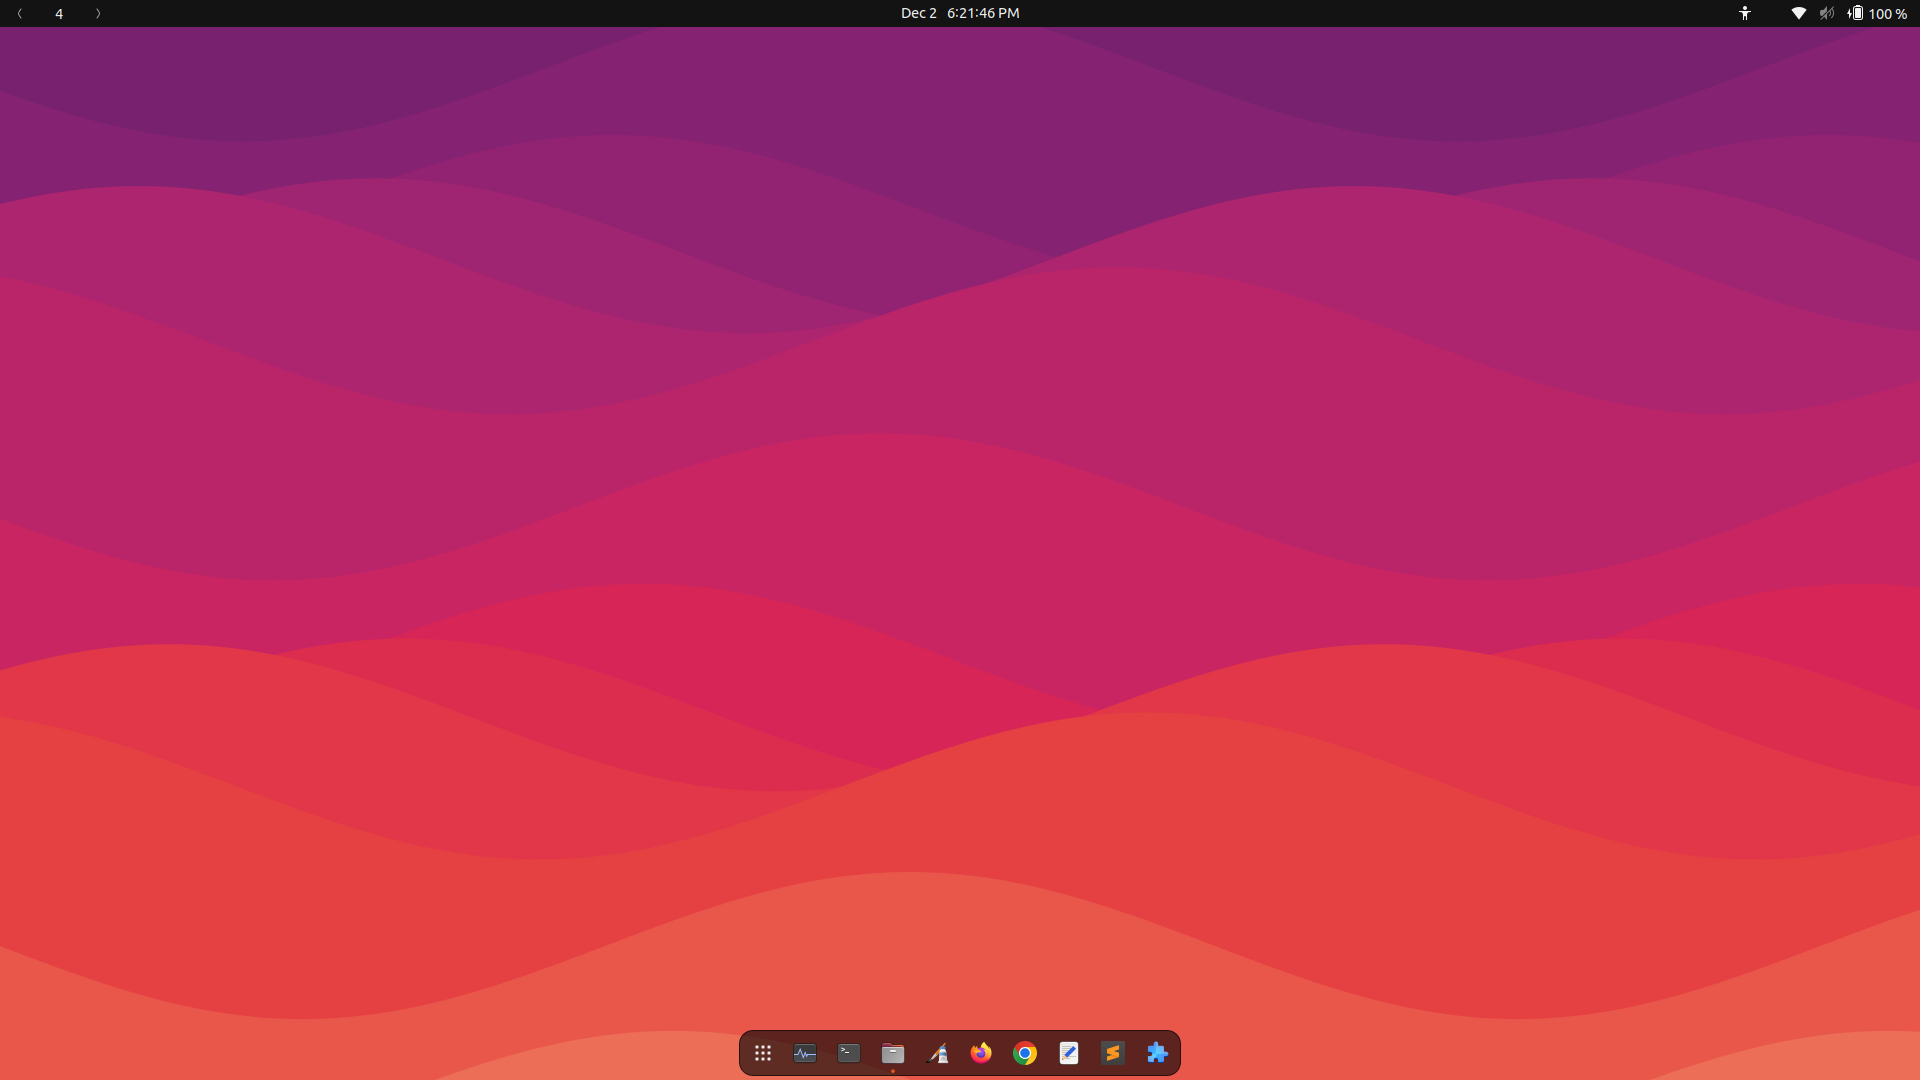
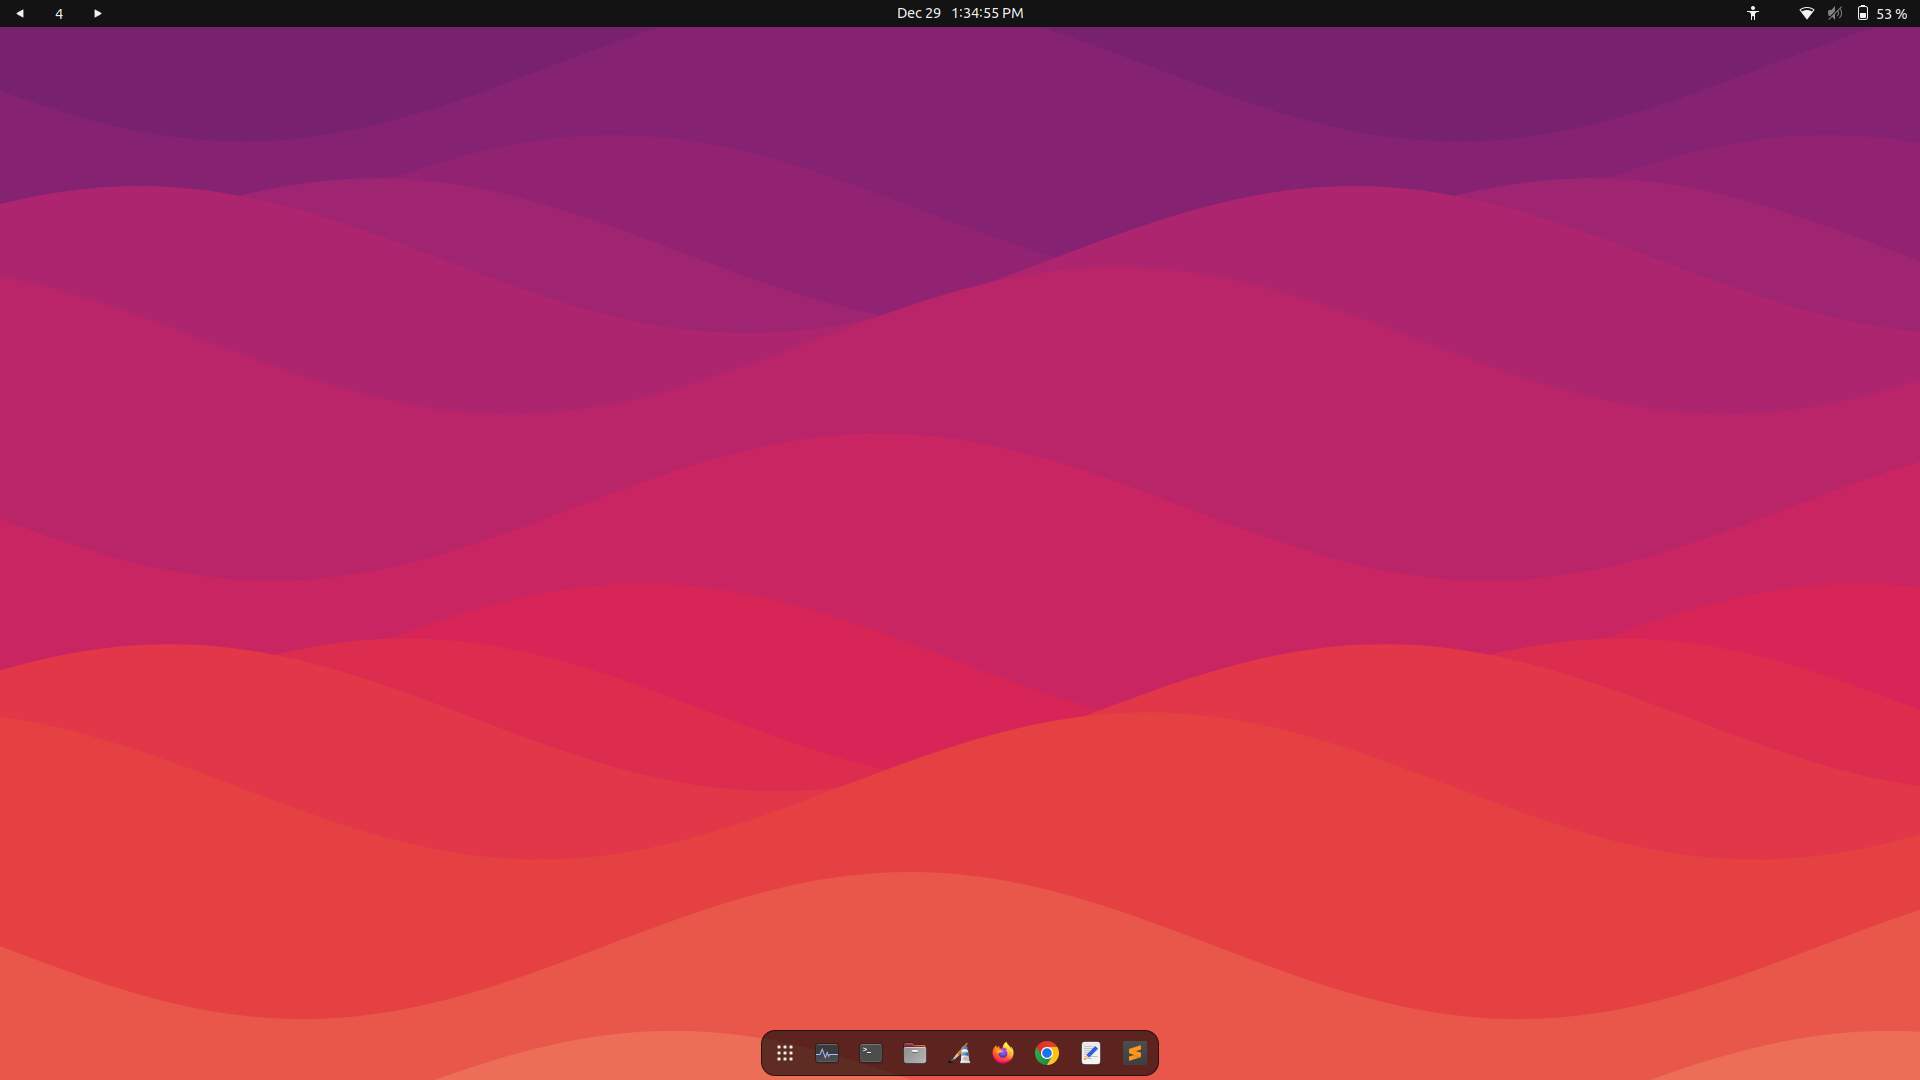
V5

Changed region(s): [[0.375, 0.9472, 0.625, 1.0], [0.9375, 0.0, 1.0, 0.0306], [0.4688, 0.0, 0.5312, 0.0306]]

diff --git a/extension.js b/extension.js
@@ -57,13 +57,13 @@ class Switcher {
     }
 
     _createButtonsContainer() {
-        this._buttons.left = this._getButton('go-previous-symbolic').button;
+        this._buttons.left = this._getButton('media-playback-start-rtl-symbolic').button;
         this._buttons.left.connect('button-press-event', () => this._switchToWorkspace(-1));
 
-        this._buttons.right = this._getButton('go-next-symbolic').button;
+        this._buttons.right = this._getButton('media-playback-start-symbolic').button;
         this._buttons.right.connect('button-press-event', () => this._switchToWorkspace(1));
 
-        let centerButton = this._getButton(null, '1');
+        let centerButton = this._getButton(null, this._getActiveWorkspaceIndex());
         this._buttons.center = centerButton.button;
         this._buttons.center.connect('button-press-event', () => Main.overview.toggle());
 

diff --git a/README.md b/README.md
@@ -1,4 +1,4 @@
-![preview](./content/images/preview.png)
+![View on GitHub repo](./content/images/preview.png)
 
 [Full Screen Preview](./content/images/full_screen_preview.png)
 
@@ -81,6 +81,9 @@ __Quick Reference__
 - Zip it
     `zip ../workspace-switch-buttons@rajan-31.zip *`
 
+- Symbolic Icons
+    `/usr/share/icons/Yaru/scalable`
+
 <!-- 
     ### What to update after update
 
@@ -101,5 +104,8 @@ __Quick Reference__
     ### More features/improvements
 
     [ ] Wrap around on first and last workspace
-    [ ] all three button as single item
+    [ ] different placement options
+    
+    [*] use style_class
+    [*] all three button as single item
  -->
